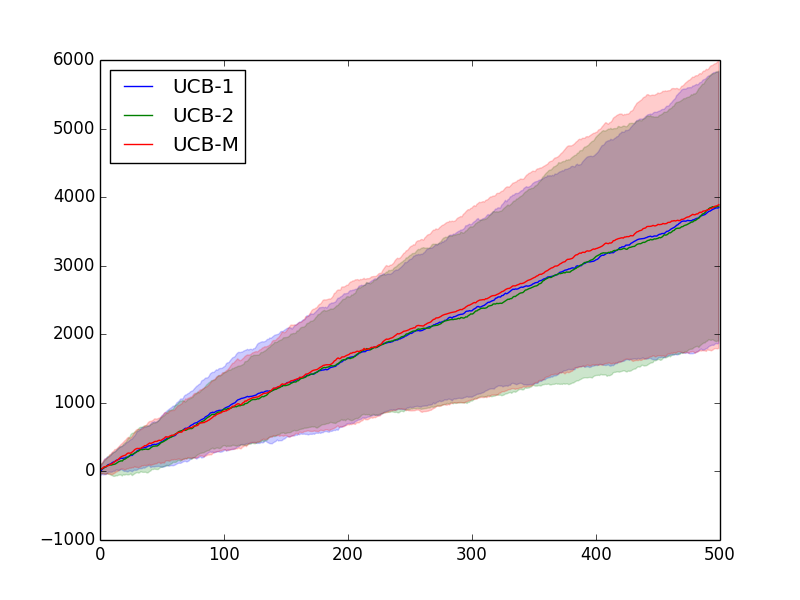
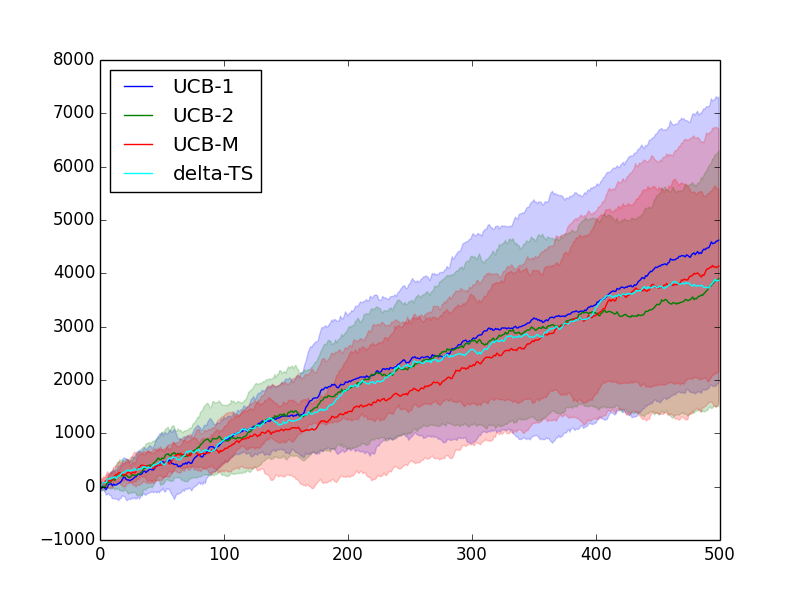
delta-ts v1 coded up

diff --git a/network_bandits/main.py b/network_bandits/main.py
@@ -72,11 +72,11 @@ def drawPullMap(output_file, bandits):
 if __name__ == '__main__':
 
     regret_ucb1, regret_ucbM, regret_ucb2 = None, None, None
-    rounds = 50
+    rounds = 10
     min_agents, max_agents = 10, 40
     min_arms, max_arms = 8, 8
-    num_iters = 500
-    eps=0.025
+    num_iters = 5000
+    eps = 0.025
     for round in range(rounds):
 
         num_agents = random.choice(range(min_agents, max_agents+1))
@@ -84,19 +84,28 @@ if __name__ == '__main__':
 
         this_round_regret = []
         graphs = [
-            bandit.generateRandomGraph(num_agents, p=1) for _ in range(num_arms)]
+            bandit.generateRandomGraph(num_agents, p=1)
+            for _ in range(num_arms)]
         num_edges = sum(len(list(g.edges)) for g in graphs)
         G1 = bandit.NetworkBandit(
-            num_agents, num_arms, graphs, eps=eps, mu_min=0, mu_max=1, sigma=10)
+            num_agents,
+            num_arms,
+            graphs,
+            eps=eps,
+            mu_min=0,
+            mu_max=1,
+            sigma=1)
         G2 = copy.deepcopy(G1)
         G3 = copy.deepcopy(G1)
         G4 = copy.deepcopy(G1)
         G5 = copy.deepcopy(G1)
 
         random_agents = [
-            agents.RandomAgent(graphs, x, 'gaussian') for x in range(num_agents)]
+            agents.RandomAgent(graphs, x, 'gaussian') for x in
+            range(num_agents)]
         ucb_agents = [
-            agents.BaseUCBAgent(graphs, x, 'gaussian') for x in range(num_agents)]
+            agents.BaseUCBAgent(graphs, x, 'gaussian') for x in
+            range(num_agents)]
         maxucb_agents = [
             agents.MaxMeanUCBAgent(
                 graphs, x, 'gaussian') for x in range(num_agents)]
@@ -105,7 +114,12 @@ if __name__ == '__main__':
                 graphs, x, 'gaussian', eps=eps) for x in range(num_agents)]
         deltats_agents = [
             agents.DeltaThompsonSamplingAgent(
-                graphs, x, 'gaussian', eps=eps) for x in range(num_agents)]
+                graphs,
+                x,
+                'gaussian',
+                eps=eps,
+                delta_ts=True)
+            for x in range(num_agents)]
 
         ucb1_regret = runExperimentSingleCore(G2, ucb_agents, num_iters)
         ucbM_regret = runExperimentSingleCore(G3, maxucb_agents, num_iters)
@@ -125,7 +139,8 @@ if __name__ == '__main__':
             regret_ucbM = np.concatenate(
                 (regret_ucbM, np.expand_dims(np.array(ucbM_regret), 0)), 0)
             regret_deltats = np.concatenate(
-                (regret_deltats, np.expand_dims(np.array(ucbM_regret), 0)), 0)
+                (regret_deltats,
+                    np.expand_dims(np.array(deltats_regret), 0)), 0)
 
         print('Completed round %d.' % (round+1))
 
@@ -152,7 +167,7 @@ if __name__ == '__main__':
     plt.fill_between(
         range(num_iters), mean_ucbM-std_ucbM, mean_ucbM+std_ucbM,
         color='red', alpha=0.2)
-    plt.plot(range(num_iters), mean_dets, label='UCB-M', color='red')
+    plt.plot(range(num_iters), mean_dets, label='delta-TS', color='cyan')
     plt.fill_between(
         range(num_iters), mean_dets-std_dets, mean_dets+std_dets,
         color='red', alpha=0.2)

diff --git a/network_bandits/agents.py b/network_bandits/agents.py
@@ -356,7 +356,10 @@ class DeltaThompsonSamplingAgent(NetworkAgent):
             self.uses_clique = True
 
         post_mu, post_sigma = [], []
-        if self.nbr_ids is not None and self.delta_ts:
+        if self.num_iters <= self.arms:
+            self.played_arm = (self.num_iters - 1) % self.arms
+
+        elif self.nbr_ids is not None and self.delta_ts:
 
             for arm, (avgx, cntx, idx) in enumerate(
                     zip(self.nbr_avgs, self.nbr_counts, self.nbr_ids)):
@@ -379,16 +382,22 @@ class DeltaThompsonSamplingAgent(NetworkAgent):
                 post_mu.append(post_mu_arm*1.0/post_sigma_inv_arm)
                 post_sigma.append(post_sigma_inv_arm**(-1))
 
+            posterior_samples = []
+            for mu, sigma in zip(post_mu, post_sigma):
+                posterior_samples.append(np.random.normal(mu, sigma))
+
+            self.played_arm = np.argmax(posterior_samples)
+
         else:
             # no neighbors, do regular Thompson Sampling
             post_mu = self.prior_mu + self.means
             post_sigma = self.prior_sigma + self.sigma/self.samples
 
-        posterior_samples = []
-        for mu, sigma in zip(post_mu, post_sigma):
-            posterior_samples.append(np.random.normal(mu, sigma))
+            posterior_samples = []
+            for mu, sigma in zip(post_mu, post_sigma):
+                posterior_samples.append(np.random.normal(mu, sigma))
 
-        self.played_arm = np.argmax(posterior_samples)
+            self.played_arm = np.argmax(posterior_samples)
         return self.played_arm
 
     def update(self, reward, **kwargs):
